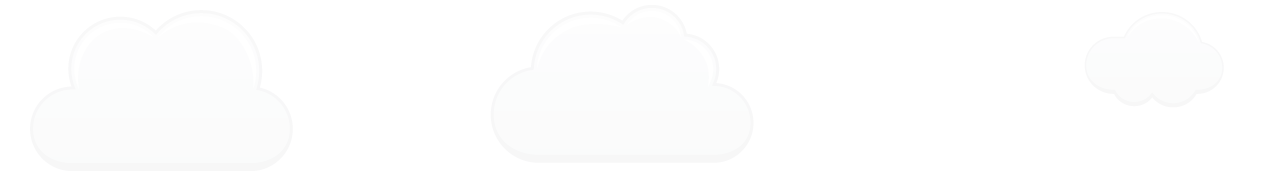
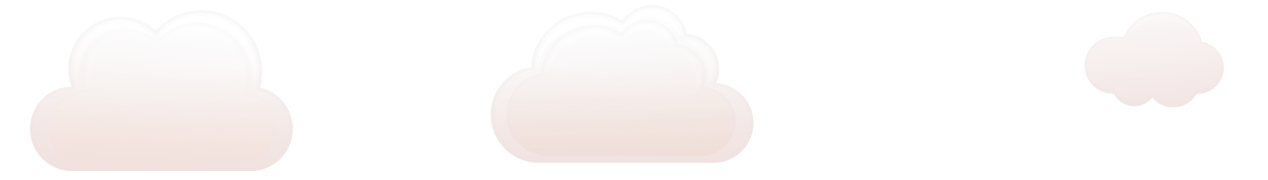
renamed:    img/far-clouds3.png -> img/far-clouds.png 	deleted:    img/far-clouds2.png 	deleted:    img/near-clouds-2.png 	renamed:    img/near-clouds-4.png -> img/near-clouds.png 	deleted:    img/near-clouds2.png 	deleted:    img/near-clouds3.png 	renamed:    img/roof_texture-2.png -> img/roof_text
meow!

Changed region(s): [[0.3998, 0.6111, 0.5844, 0.8889], [0.0308, 0.6944, 0.2461, 0.9167]]

diff --git a/script.js b/script.js
@@ -9,7 +9,7 @@ var roof = document.getElementById('roof');
 var cat_jump = document.getElementById('cat-jump');
 var cat_stay = document.getElementById('cat-stay');
 var task = document.getElementById('task');
-
+var result = document.getElementById('result');
 
 
 function test(value) {
@@ -114,6 +114,7 @@ function test(value) {
 		clearInterval(IDeyes);
 		IDquest = setInterval(testt,50);
 		$('#task').show();
+		$('#result').text(0)
 
 	}
 
@@ -122,6 +123,7 @@ function test(value) {
 
 $('#cat').sprite({fps: 12, no_of_frames: 2});
 
+                
 function run(){
     $('#cat-jump').hide();
     $('#cat').show();
@@ -215,28 +217,62 @@ function roof_jump(){
 
 
 /*questions*/
-var ls1 = ["0", "56-49-6=?", "6/3=?", "36/12=?", "112/28=?", "15/3=?", "sqrt(36)=?", "42/6=?", "72/9=?", "108/12=?"];
-var ls2 = ["0", "21/(3*7)=?", "1+1=?", "6/2=?", "sqrt(16)=?", "25/5=?", "72/12=?", "35/5=?", "40-32=?", "73-64=?"];
+var ls1 = ["0", "56-49-6=?", "6/3=?", "36/12=?", "112/28=?", "15/3=?", "48/8=?", "42/6=?", "72/9=?", "108/12=?"];
+var ls2 = ["0", "21/(3*7)=?", "1+1=?", "6/2=?", "56/14=?", "25/5=?", "72/12=?", "35/5=?", "40-32=?", "73-64=?"];
+var ls3 = ["0", "75-69-5=?", "34/17=?", "9/3=?", "2*2=?", "60/12=?", "54-48=?", "28/4=?", "2*3+2=?", "12-3=?"];
+var ls4 = ["0", "48/(6*8)=?", "56/28=?", "24/8=?", "36/9=?", "75/25=?", "48-42=?", "14/2=?", "5*2-2=?", "3+3+3=?"];
+var ls5 = ["0", "2-1=?", "15*0+2=?", "1+1+1=?", "11-6-1=?", "7-5+3=?", "54/9=?", "10-1-2=?", "64/4/2=?", "81-72=?"];
+var ls6 = ["0", "1*1*1=?", "2+5*0=?", "12/4=?", "2*1+1*2=?", "65/13=?", "36/6=?", "14/2=?", "72-64=?", "10-8+7=?"];
+var ls7 = ["0", "72/(12*6)=?", "94/47=?", "9-2*3=?", "84/21=?", "1+3+1=?", "1*2*3=?", "1*7*1=?", "2+2*2+2=?", "3*3=?"];
+var ls8 = ["0", "9*7/63=?", "78/39=?", "2*1+1=?", "94/24=?", "70/7/2=?", "2+2+2=?", "56/8=?", "56/7=?", "81/9=?"];
+
 
 function generate_quest(){
 	var random = Math.random();
 	var num = Math.floor(Math.random() * 9) + 1;
-	if (random < 0.5){
+	if (random < 0.2){
 		$('#task').text(ls1[num]);
 	}
-	else{
+	else if (random < 0.3){
 		$('#task').text(ls2[num]);
+	}
+	else if (random < 0.4){
+		$('#task').text(ls3[num]);
+	}
+	else if (random < 0.5){
+		$('#task').text(ls4[num]);
+	}
+	else if (random < 0.6){
+		$('#task').text(ls5[num]);
+	}
+	else if (random < 0.7){
+		$('#task').text(ls6[num]);
+	}
+	else if (random < 0.8){
+		$('#task').text(ls7[num]);
+	}
+	
+	else{
+		$('#task').text(ls8[num]);
 	}
 	x = num+48;
 };
 
 
 function testt() {
-	hui = roof.style.backgroundPositionX;
-	//$('#task').text(parseInt(hui)<= -970);
+	//result//
+	res = parseInt($('#result').text(), 10);
+	res += 1;
+	$('#result').text(res);
+	//result//
 
-	if (  parseInt(hui)<= -1680)	{ generate_quest(); }
-	if (((parseInt(hui)<= -1076)&&(parseInt(hui)>= -1210))&&(cat.style.display!= 'none' )){
+	hui = roof.style.backgroundPositionX;
+
+	if (  parseInt(hui,10)<= -1680)	{ 
+		generate_quest(); 
+		
+	}
+	if (((parseInt(hui,10)<= -1076)&&(parseInt(hui,10)>= -1210))&&(cat.style.display!= 'none' )){
 		clearInterval(IDquest);
 		task.style.display = 'none';
 		$('#cat-jump').hide();
@@ -247,11 +283,11 @@ function testt() {
 		$('#cat-stay').animate({bottom: '-87px'},416.5);
 		$('#roof').destroy();
 		$('#cfb').show(50);
-		$('#roof').animate({backgroundPositionX: '0px'},3000);
-		setTimeout(new_game,3000)
+		$('#roof').animate({backgroundPositionX: '0px'},1500);
+		setTimeout(new_game,1500)
 		$('#far-clouds').spSpeed(1);
         $('#near-clouds').spSpeed(2);
-
+        var IDeyes = setInterval(lol, 5000);
 		}
 }
 
@@ -267,3 +303,32 @@ function new_game(){
 	cat_stay.style.left = '200px';
 	show_objects();
 }
+
+
+
+
+//speed
+function one(){
+    $('#roof').spSpeed(16);
+};
+function two(){
+    $('#roof').spSpeed(17);
+    $('#far-clouds').spSpeed(4);
+    $('#near-clouds').spSpeed(8);
+    $('#roof').fps(39);
+};
+function three(){
+    $('#roof').spSpeed(18);
+};
+function four(){
+    $('#roof').spSpeed(19);
+    $('#far-clouds').spSpeed(5);
+    $('#near-clouds').spSpeed(9);
+    $('#roof').fps(41);
+};
+
+
+setTimeout(one(), 7000);
+setTimeout(two(), 14000);
+setTimeout(three(), 25000);
+setTimeout(four(), 40000);

diff --git a/style.css b/style.css
@@ -6,7 +6,7 @@
 
 
  body {
-    background: #d88b7f url(img/sky2.png) 0 0 repeat-x;
+    background: #d88b7f url(img/sky.png) 0 0 repeat-x;
     padding: 0;
 	margin: 0;
 	width: 100%;
@@ -96,11 +96,13 @@
     }
 
 .far-clouds {
-    background: transparent url(img/far-clouds3.png) 305px 102px repeat-x;
+    background: transparent url(img/far-clouds.png) 305px 102px repeat-x;
+    top: -20px;
     }
 
 .near-clouds {
-    background: transparent url(img/near-clouds-4.png) 305px 162px repeat-x;
+    background: transparent url(img/near-clouds.png) 305px 162px repeat-x;
+    top: -30px;
     }
 
 .mainContent{
@@ -112,20 +114,32 @@
 
 .task{
 	position: absolute;
-	left: 47%;
-	top: 40%;
 	display: inline-block;
-	cursor: pointer;
 	color: #ffffff;
 	font-family: comic;
 	font-size: 38px;
+	text-align: center;
+	top: 40%;
+	width: 100%;
+	margin: 0 auto;
+}
 
+.result{
+	position: absolute;
+	right: 20px;
+	top: 4%;
+	display: inline-block;
+	color: #01f101;
+	font-family: comic;
+	font-size: 30px;
 
 }
 
 
+
+
 .roof{
-	background: url(img/roof_texture-2.png) 0 0 repeat-x;
+	background: url(img/roof_texture.png) 0 0 repeat-x;
 	width: 100%	;
 	height: 0;
 	position: absolute;
@@ -156,7 +170,7 @@
 
 
 .cat-stay{
-	background: url(img/try-stay.png) 0 0;
+	background: url(img/stay.png) 0 0;
 	width: 180px;	
 	height: 180px;
 	position: absolute;

diff --git a/index.html b/index.html
@@ -8,13 +8,7 @@
     <script src="js/jquery-ui-1.7.2.spritely.custom.min.js" type="text/javascript"></script>
     <script src="js/jquery.spritely-0.6.8.js"></script>
     <script src="js/jquery-1.7.1.min.js" ></script>
-    <script src="js/jquery.spritely.js" ></script>    
-    <script src="js/jquery-ui-1.7.2.spritely.custom.min.js" type="text/javascript"></script>
-    <script src="js/jquery.spritely-0.6.8.js"></script>
-    <script src="js/jquery-1.7.1.min.js" ></script>
-    <script src="js/jquery.spritely.js" ></script>
-
-
+    <script src="js/jquery.spritely.js" ></script> 
 </head>
 <body>
 <div class="content">        
@@ -25,7 +19,8 @@
 
         </div>
     </div>
-    <div id="task" class="task" style="cursor: text; display: none">2+2=?</div>
+    <div id="result" class="result" style="cursor: text">0</div>
+    <div id="task" class="task" style="cursor: text; display: none" >2+2=?</div>
     <div id="roof" class="roof"></div>
     <div id="cat" class="cat"></div>
     <div id="cat-stay" class="cat-stay"></div>
